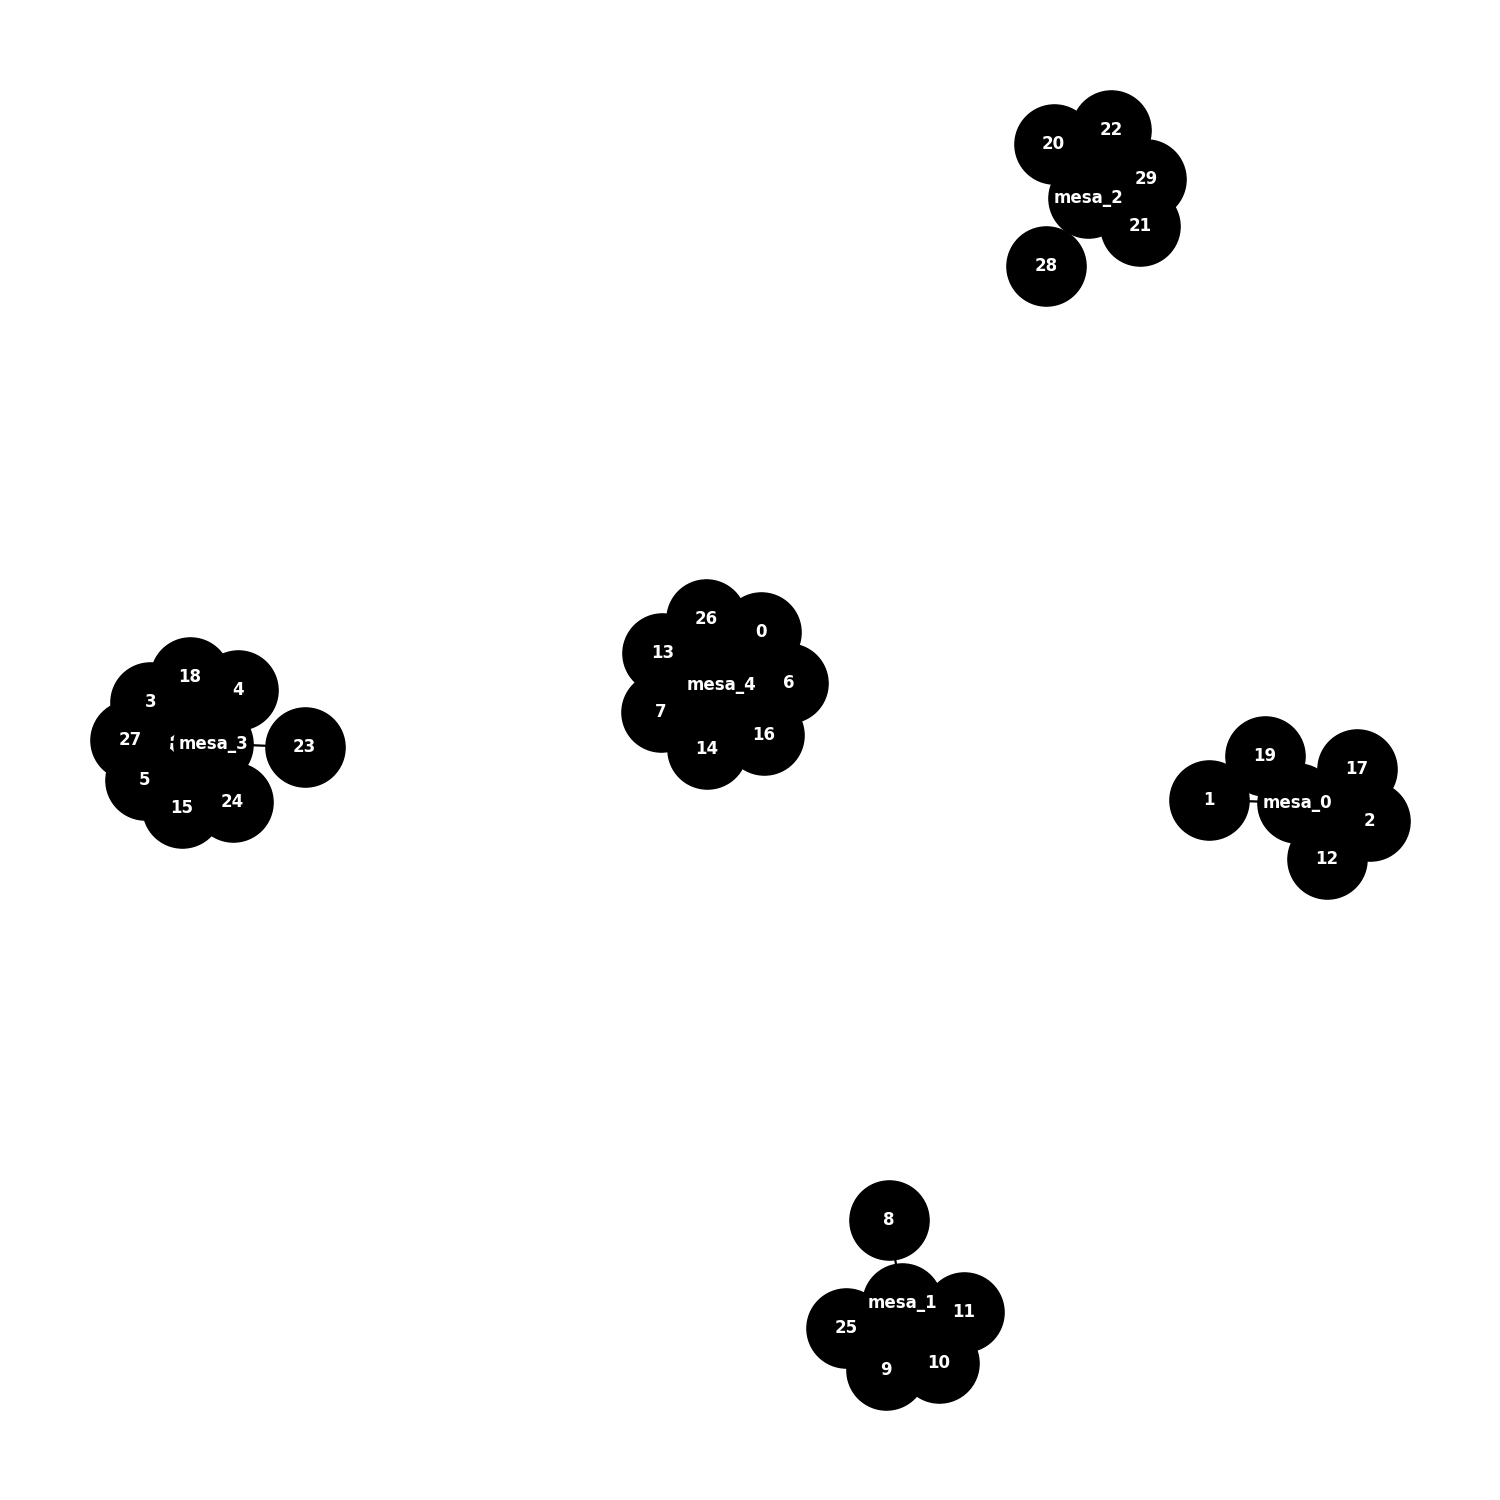
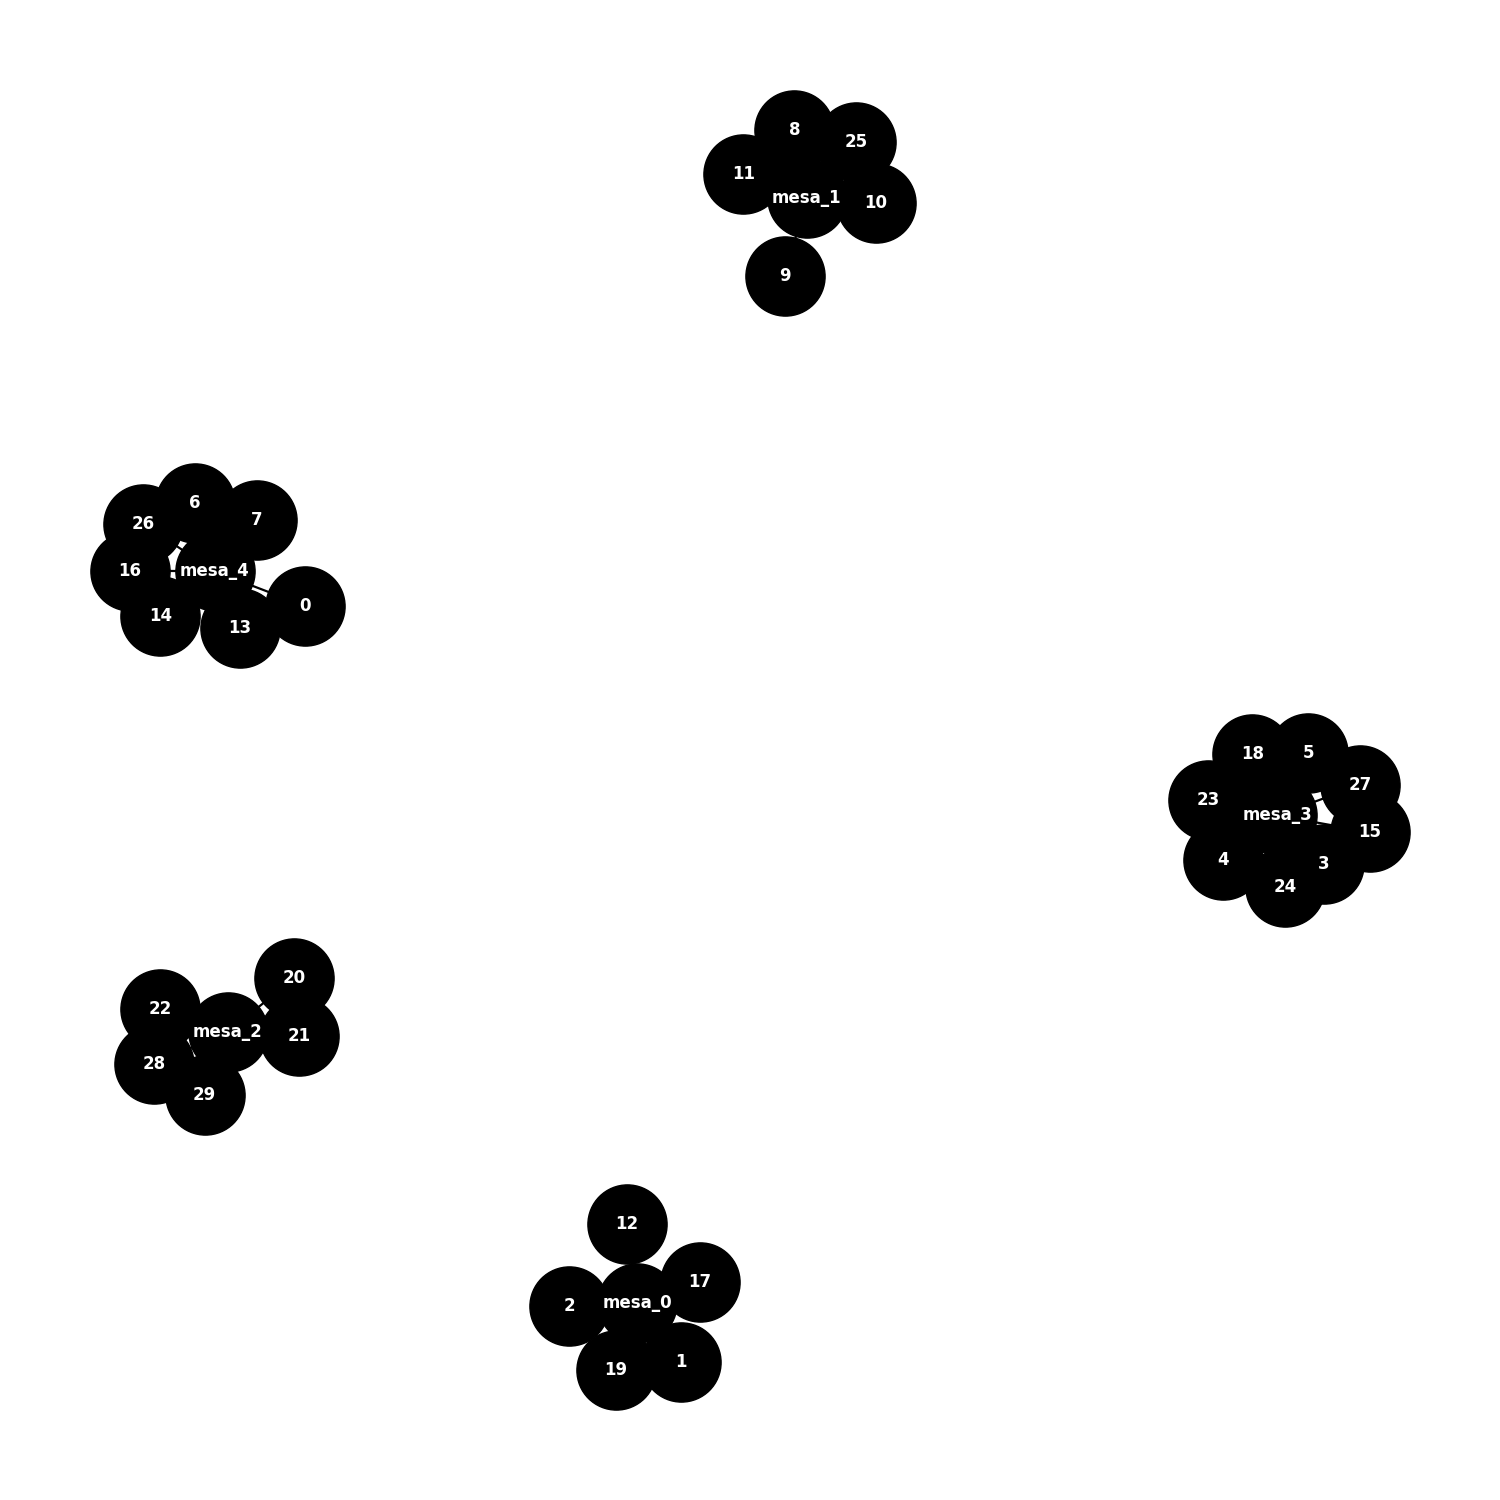
consertando solution

diff --git a/src/vnd.py b/src/vnd.py
@@ -1,16 +1,14 @@
 from function_movimento_vizinhanca import *
 from function_tratamentos import *
 
-def VND (mesa,matrix_afinidade,ja_sentou,quant_convidados):
-  r = 3
+def VND (mesa,matrix_afinidade):
+  r = 2
   k = 1
   while (k<=r):
     if (k == 1):
       copia_VND = Reinsertion(mesa,matrix_afinidade)
     elif (k==2):
       copia_VND = swap(mesa,matrix_afinidade)
-    elif (k==3):
-      copia_VND = Mesa_furada(mesa,ja_sentou,matrix_afinidade,quant_convidados)
 
 
     if (solution(copia_VND,matrix_afinidade)>solution(mesa,matrix_afinidade)):

diff --git a/src/function_tratamentos.py b/src/function_tratamentos.py
@@ -15,10 +15,14 @@ def nodes_edg(nome_mesa,grafo):
 def solution(sol, matrix_afinidade):
     soma = 0
     for i in list(sol):
+        visitados = []
         for j in nodes_edg(i,sol):
             for k in nodes_edg(i,sol):
                 if(j==k):
                     continue
+                if((k,j) in visitados or (j,k) in visitados):
+                    continue
+                visitados.append((k,j))
 
                 soma += matrix_afinidade[j][k]
     return soma

diff --git a/src/meta_heuristica.py b/src/meta_heuristica.py
@@ -43,7 +43,7 @@ def ILS (execucoes,vnd_teste,matrix_afinidade,ja_sentou,quant_convidados):
     beneficio = solution(copia_vnd_teste,matrix_afinidade)
     while(numero_melhoras > 0):
       teste = Perturbacao(copia_vnd_teste,2)
-      teste2 = VND (teste,matrix_afinidade, ja_sentou,quant_convidados)
+      teste2 = VND (teste,matrix_afinidade)
 
       if(solution(teste2,matrix_afinidade)>beneficio):
         beneficio = solution(teste2,matrix_afinidade)

diff --git a/src/function_movimento_vizinhanca.py b/src/function_movimento_vizinhanca.py
@@ -211,7 +211,7 @@ def Mesa_furada(grafo,ja_sentou,matrix_afinidade,quant_convidados):
     copia_sentados.append(indice_maior[0])
     copia_sentados.append(indice_maior[1])
     
-    while(len(copia_sentados)<quant_convidados):
+    while(len(copia_sentados)<quant_convidados): #da pra utilizar o reinsertion mas dessa forma ta mais otimizado
       mais_afim = -9999
       for i in em_pe:
         if (i in copia_sentados):

diff --git a/src/main.py b/src/main.py
@@ -86,7 +86,7 @@ for i in instancias:
 
   #INICIO DO VND
   start_time_vnd = time.time()
-  solucao_final_VND = VND(mesa,matrix_afinidade,ja_sentou,quant_convidados)
+  solucao_final_VND = VND(mesa,matrix_afinidade)
   end_time_vnd = time.time()
 
   vnd_List.append(solution(solucao_final_VND,matrix_afinidade))
